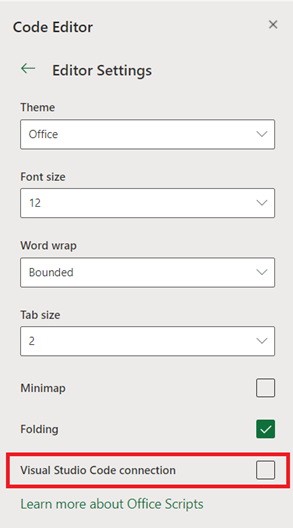
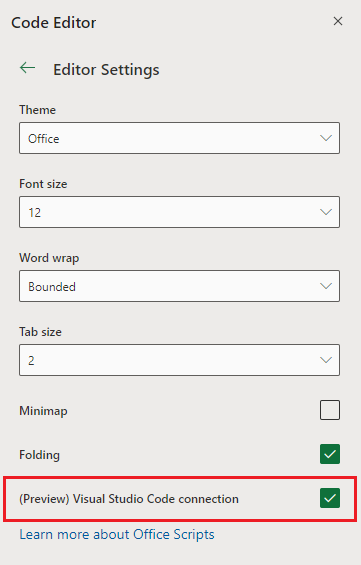
Update UI screenshots and descriptions to include preview tag

diff --git a/docs/develop/vscode-for-scripts.md b/docs/develop/vscode-for-scripts.md
@@ -29,7 +29,7 @@ Follow these one-time steps to connect Visual Studio Code and Excel on the web.
 
 1. Open the Office Scripts **Code Editor**.
 2. Under the **More options (…)** menu, select **Editor settings**.
-3. Select **Visual Studio Code connection**.
+3. Select **(Preview) Visual Studio Code connection**.
 
 :::image type="content" source="../images/vscode-enable-option.png" alt-text="The editor settings task pane showing a checkbox labeled Visual Studio Code connection.":::
 
